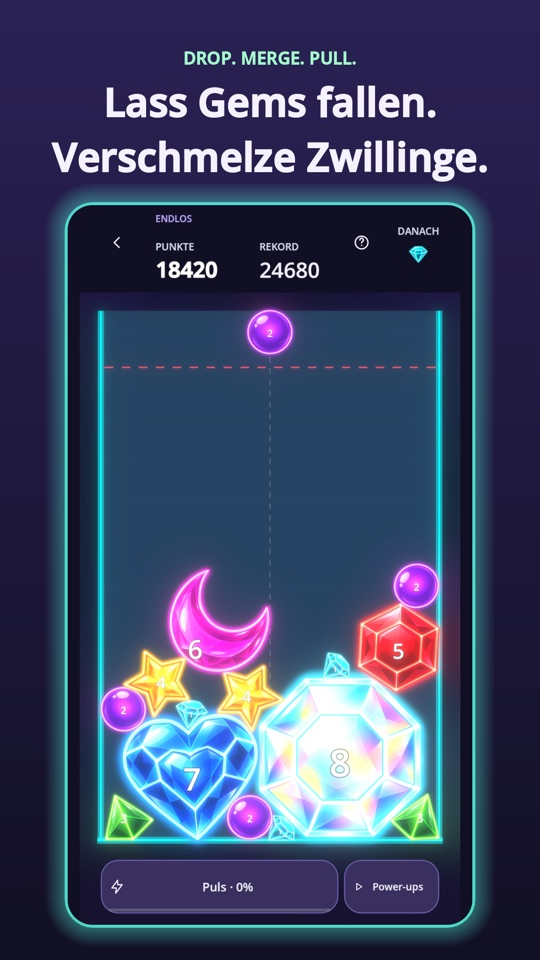
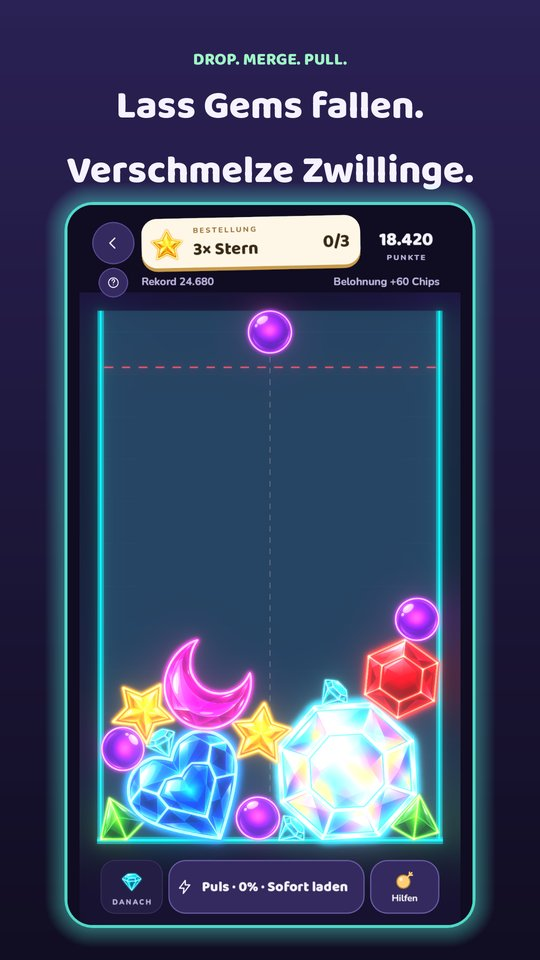
Pulsefall: privacy policy, new screenshots, twelve tiers, levels, crystal cave and gem sets

Changed region(s): [[0.1778, 0.5625, 0.8296, 0.9688], [0.0889, 0.0312, 0.9185, 0.375], [0.1185, 0.9375, 0.1481, 0.9688]]

diff --git a/pulsefall/privacy.html b/pulsefall/privacy.html
@@ -1,0 +1,130 @@
+<!doctype html>
+<html lang="de">
+<head>
+<meta charset="utf-8">
+<meta name="viewport" content="width=device-width, initial-scale=1">
+<title>Pulsefall – Datenschutz</title>
+<meta name="theme-color" content="#1d1235">
+<link rel="stylesheet" href="../style.css">
+<script src="../assets/lang.js"></script>
+</head>
+<body style="--accent:#5ee7f0; --on-accent:#08262a;">
+<header class="top"><div class="wrap">
+  <a class="logo" href="../">ginger4le</a>
+  <nav class="nav">
+    <a href="./" class="hide-sm">Pulsefall</a>
+    <span class="lang"><button data-set="de" aria-label="Deutsch">DE</button><button data-set="en" aria-label="English">EN</button></span>
+  </nav>
+</div></header>
+
+<main class="wrap doc">
+<div id="de" class="de">
+<h1>Pulsefall – Datenschutzerklärung</h1>
+<p class="muted">Entwickler: Ginger4le (Artem Bruner) · Stand: Oktober 2026</p>
+
+<section>
+<h2>1. Kurzfassung</h2>
+<p>Pulsefall braucht kein Konto. Spielstand, Rekorde und Einstellungen bleiben auf deinem Gerät. Wir betreiben keine eigenen Server und erhalten keine Spieldaten von dir. Werbung liefert Google AdMob aus, personalisierte Werbung nur mit deiner Einwilligung. Käufe wickelt Google Play ab, Zahlungsdaten erhalten wir nicht.</p>
+</section>
+
+<section>
+<h2>2. Daten auf deinem Gerät</h2>
+<p>Das Spiel speichert Spielstand, Rekorde, Fortschritt, Erfolge, Leben, gekaufte oder freigeschaltete Inhalte und Einstellungen lokal im App-Speicher. Diese Daten verlassen dein Gerät nicht durch uns. Sie werden gelöscht, wenn du die App deinstallierst oder ihre Daten löschst (Android: <em>Einstellungen › Apps › Pulsefall › Speicher › Speicherinhalt löschen</em>). Eine Android-Gerätesicherung durch Google kann je nach deinen Systemeinstellungen App-Daten einschließen.</p>
+</section>
+
+<section>
+<h2>3. Werbung (Google AdMob)</h2>
+<p>Anbieter: Google Ireland Limited, Gordon House, Barrow Street, Dublin 4, Irland. AdMob kann insbesondere die Werbe-ID deines Geräts, die IP-Adresse, Geräte- und App-Informationen sowie Interaktionen mit Anzeigen verarbeiten, um Anzeigen auszuliefern, zu begrenzen, zu messen und Betrug zu verhindern.</p><p>Beim ersten Start fragt dich ein Einwilligungsdialog (Google User Messaging Platform), ob Informationen auf deinem Gerät gespeichert oder ausgelesen und Anzeigen personalisiert werden dürfen. Rechtsgrundlage ist deine Einwilligung (Art. 6 Abs. 1 lit. a DSGVO, § 25 Abs. 1 TDDDG). Ohne Einwilligung werden, soweit möglich, nur nicht personalisierte Anzeigen auf Grundlage unseres berechtigten Interesses an der Finanzierung des kostenlosen Spiels ausgeliefert (Art. 6 Abs. 1 lit. f DSGVO). Deine Auswahl kannst du jederzeit im Spiel unter <em>Einstellungen › Werbe-Datenschutzeinstellungen</em> ändern oder widerrufen; die Werbe-ID lässt sich in den Android-Einstellungen zurücksetzen oder löschen.</p><p>Google kann Daten auch in die USA übermitteln; Google LLC ist unter dem EU-US Data Privacy Framework zertifiziert. Mehr dazu: <a href="https://policies.google.com/privacy" rel="noopener">Google-Datenschutzerklärung</a>, <a href="https://policies.google.com/technologies/partner-sites" rel="noopener">Wie Google Daten von Partner-Apps verwendet</a>.</p>
+</section>
+
+<section>
+<h2>4. Käufe (Google Play)</h2>
+<p>In-App-Käufe (z. B. Chips, Starterpaket, Werbung entfernen) laufen über Google Play Billing. Google verarbeitet dafür deine Konto- und Zahlungsdaten nach der eigenen Datenschutzerklärung. Die App erhält nur eine Kaufbestätigung (Produkt, Kaufstatus, Kauf-Token), um den Inhalt freizuschalten und wiederherzustellen. Rechtsgrundlage ist die Vertragserfüllung (Art. 6 Abs. 1 lit. b DSGVO).</p>
+</section>
+
+<section>
+<h2>5. Google Play und Absturzberichte</h2>
+<p>Beim Download und bei Updates verarbeitet Google Play Daten in eigener Verantwortung. Hast du das in Android aktiviert, kann Google uns anonymisierte Absturz- und Leistungsstatistiken (Android Vitals) bereitstellen. Daraus können wir dich nicht identifizieren.</p>
+</section>
+
+<section>
+<h2>6. Kontakt per E-Mail</h2>
+<p>Schreibst du uns, verwenden wir deine E-Mail-Adresse und Nachricht nur zur Bearbeitung deiner Anfrage (Art. 6 Abs. 1 lit. b bzw. f DSGVO) und löschen sie, sobald sie nicht mehr nötig sind.</p>
+</section>
+
+<section>
+<h2>7. Kinder</h2>
+<p>Das Spiel richtet sich nicht an Kinder unter 16 Jahren. Wir erheben wissentlich keine personenbezogenen Daten von Kindern.</p>
+</section>
+
+<section>
+<h2>8. Deine Rechte</h2>
+<p>Du hast das Recht auf Auskunft, Berichtigung, Löschung, Einschränkung der Verarbeitung, Datenübertragbarkeit und Widerspruch gegen Verarbeitungen auf Grundlage berechtigter Interessen (Art. 15–21 DSGVO). Einwilligungen kannst du jederzeit mit Wirkung für die Zukunft widerrufen. Du kannst dich außerdem bei einer Datenschutz-Aufsichtsbehörde beschweren. Da wir selbst keine Spieldaten erhalten, richten sich Anfragen zu AdMob- oder Play-Daten am wirksamsten direkt an Google.</p>
+</section>
+
+<section>
+<h2>9. Kontakt</h2>
+<p><a href="mailto:ginger4le.dev+pulsefall@gmail.com">ginger4le.dev+pulsefall@gmail.com</a></p><p class="muted">Ändern sich das Spiel oder die eingesetzten Dienste, passen wir diese Erklärung vorher an.</p>
+</section>
+</div>
+
+<div id="en" class="en">
+<h1>Pulsefall – Privacy policy</h1>
+<p class="muted">Developer: Ginger4le (Artem Bruner) · Last updated: October 2026</p>
+
+<section>
+<h2>1. Summary</h2>
+<p>Pulsefall needs no account. Your progress, records and settings stay on your device. We run no servers of our own and receive no gameplay data from you. Ads are served by Google AdMob, personalised ads only with your consent. Purchases are handled by Google Play; we never receive payment details.</p>
+</section>
+
+<section>
+<h2>2. Data on your device</h2>
+<p>The game stores your saved round, records, progress, achievements, lives, purchased or unlocked content and settings locally in the app's storage. We do not transfer this data off your device. It is deleted when you uninstall the app or clear its data (Android: <em>Settings › Apps › Pulsefall › Storage › Clear storage</em>). Depending on your system settings, Android device backups by Google may include app data.</p>
+</section>
+
+<section>
+<h2>3. Advertising (Google AdMob)</h2>
+<p>Provider: Google Ireland Limited, Gordon House, Barrow Street, Dublin 4, Ireland. AdMob may process your device's advertising ID, IP address, device and app information and ad interactions to serve, cap and measure ads and to prevent fraud.</p><p>On first launch a consent dialog (Google User Messaging Platform) asks whether information may be stored on or read from your device and whether ads may be personalised. The legal basis is your consent (Art. 6(1)(a) GDPR, § 25(1) TDDDG). Without consent, where possible only non-personalised ads are served based on our legitimate interest in funding the free game (Art. 6(1)(f) GDPR). You can change or withdraw your choice at any time in the game under <em>Settings › Ad privacy settings</em>; you can also reset or delete your advertising ID in Android settings.</p><p>Google may transfer data to the USA; Google LLC is certified under the EU-US Data Privacy Framework. More: <a href="https://policies.google.com/privacy" rel="noopener">Google Privacy Policy</a>, <a href="https://policies.google.com/technologies/partner-sites" rel="noopener">How Google uses information from partner apps</a>.</p>
+</section>
+
+<section>
+<h2>4. Purchases (Google Play)</h2>
+<p>In-app purchases (such as chips, the starter pack or removing ads) are processed through Google Play Billing. Google processes your account and payment data under its own privacy policy. The app only receives a purchase confirmation (product, purchase state, purchase token) to unlock and restore the content. The legal basis is performance of a contract (Art. 6(1)(b) GDPR).</p>
+</section>
+
+<section>
+<h2>5. Google Play and crash reports</h2>
+<p>Google Play processes data under its own responsibility when you download and update the app. If you enabled this in Android, Google may provide us with anonymised crash and performance statistics (Android vitals), which do not identify you.</p>
+</section>
+
+<section>
+<h2>6. Email contact</h2>
+<p>If you email us, we use your address and message only to handle your request (Art. 6(1)(b) or (f) GDPR) and delete them once they are no longer needed.</p>
+</section>
+
+<section>
+<h2>7. Children</h2>
+<p>The game is not directed at children under 16. We do not knowingly collect personal data from children.</p>
+</section>
+
+<section>
+<h2>8. Your rights</h2>
+<p>You have the right to access, rectification, erasure, restriction of processing, data portability and to object to processing based on legitimate interests (Art. 15–21 GDPR). You may withdraw consent at any time with effect for the future. You may also lodge a complaint with a data protection supervisory authority. Because we receive no gameplay data ourselves, requests about AdMob or Play data are most effectively directed to Google.</p>
+</section>
+
+<section>
+<h2>9. Contact</h2>
+<p><a href="mailto:ginger4le.dev+pulsefall@gmail.com">ginger4le.dev+pulsefall@gmail.com</a></p><p class="muted">If the game or the services it uses change, we update this policy first.</p>
+</section>
+</div>
+</main>
+
+<footer class="foot"><div class="wrap">
+  <span>© 2026 Ginger4le · Artem Bruner</span>
+  <a href="mailto:ginger4le.dev+pulsefall@gmail.com"><span class="de">Kontakt</span><span class="en">Contact</span></a>
+  <a href="https://ko-fi.com/artembruner" rel="noopener">Ko-fi</a>
+  <a class="sp" href="../"><span class="de">Alle Spiele und Apps</span><span class="en">All games and apps</span></a>
+</div></footer>
+
+</body>
+</html>

diff --git a/pulsefall/index.html b/pulsefall/index.html
@@ -26,7 +26,7 @@
   <img class="appicon" src="img/icon.png" alt="" width="88" height="88">
   <h1>Pulsefall</h1>
   <p class="tagline"><span class="de">Lass Gems fallen. Verschmelze Zwillinge.<br>Halte den Puls.</span><span class="en">Drop gems. Merge twins.<br>Hold the pulse.</span></p>
-  <p class="intro"><span class="de">Ein Merge-Puzzle mit echter Physik: Zwei gleiche Gems werden zu einem größeren. Klettere über zehn Stufen vom kleinen Diamanten bis zur Sonne – bevor das Glas überläuft.</span><span class="en">A merge puzzle with real physics: two equal gems become a bigger one. Climb ten tiers from a tiny diamond all the way to the sun – before the glass overflows.</span></p>
+  <p class="intro"><span class="de">Ein Merge-Puzzle mit echter Physik: Zwei gleiche Gems werden zu einem größeren. Klettere über zwölf Stufen vom kleinen Diamanten bis zur Nova – bevor das Glas überläuft.</span><span class="en">A merge puzzle with real physics: two equal gems become a bigger one. Climb twelve tiers from a tiny diamond all the way to the nova – before the glass overflows.</span></p>
   <span class="status"><span class="de">Bald bei Google Play</span><span class="en">Coming soon to Google Play</span></span>
 </div></section>
 
@@ -44,9 +44,10 @@
 
   <div class="features">
     <div><h3><span class="de">Der Puls</span><span class="en">The pulse</span></h3><p><span class="de">Jede Fusion lädt den Puls. Halte einen Gem fest, und sein Zwilling gleitet quer durch den Stapel zu dir – ganze Ketten auf einmal.</span><span class="en">Every merge charges the pulse. Hold a gem and its twin glides through the pile to you – whole chains at once.</span></p></div>
-    <div><h3><span class="de">Kurze Runden</span><span class="en">Short rounds</span></h3><p><span class="de">Tippen zum Fallenlassen, ein Endlos-Modus, der enger wird, und jeden Tag eine neue Daily Challenge.</span><span class="en">Tap to drop, an endless mode that gets tighter and a new Daily Challenge every day.</span></p></div>
-    <div><h3><span class="de">Spezial-Gems</span><span class="en">Special gems</span></h3><p><span class="de">Joker, Laser, Magnet, Glitch und Mine, dazu Erfolge und sammelbare Gefäß-Designs.</span><span class="en">Joker, laser, magnet, glitch and mine, plus achievements and collectible vessel designs.</span></p></div>
-    <div><h3><span class="de">Fair</span><span class="en">Fair</span></h3><p><span class="de">Kein Konto, spielbar offline, Videos freiwillig. Pulse Plus ist ein Einmalkauf, kein Abo.</span><span class="en">No account, plays offline, videos are optional. Pulse Plus is a one-time purchase, not a subscription.</span></p></div>
+    <div><h3><span class="de">Level und Kristallhöhle</span><span class="en">Levels and the crystal cave</span></h3><p><span class="de">Jedes Level ist eine Bestellung: zwei Kronen, eine Puls-Kette, ein Punkteziel. Deine Sterne erleuchten Kammer für Kammer eine Kristallhöhle.</span><span class="en">Every level is an order: two crowns, a pulse chain, a score goal. Your stars light up a crystal cave chamber by chamber.</span></p></div>
+    <div><h3><span class="de">Endlos und Daily</span><span class="en">Endless and Daily</span></h3><p><span class="de">Ein Endlos-Modus, der enger wird, mit wechselnden Bestellungen, und jeden Tag eine neue Daily mit Kalender und Monatstrophäe.</span><span class="en">An endless mode that gets tighter, with rotating orders, and a new Daily every day with a calendar and a monthly trophy.</span></p></div>
+    <div><h3><span class="de">Gems sammeln</span><span class="en">Collect gems</span></h3><p><span class="de">Vier komplett neu gezeichnete Gem-Sets – Zuckerwerk, Eiskristall, Edelmetall und Kosmos – dazu Erfolge und Gefäß-Designs.</span><span class="en">Four fully redrawn gem sets – Sweet Shop, Ice Crystal, Precious Metal and Cosmos – plus achievements and vessel designs.</span></p></div>
+    <div><h3><span class="de">Fair</span><span class="en">Fair</span></h3><p><span class="de">Kein Konto, spielbar offline, Videos freiwillig. Werbung lässt sich mit einem Einmalkauf entfernen, kein Abo.</span><span class="en">No account, plays offline, videos are optional. Ads can be removed with a one-time purchase, no subscription.</span></p></div>
   </div>
 
   <section class="support">
@@ -61,6 +62,7 @@
 
 <footer class="foot"><div class="wrap">
   <span>© 2026 Ginger4le · Artem Bruner</span>
+  <a href="privacy.html"><span class="de">Datenschutz</span><span class="en">Privacy policy</span></a>
   <a href="mailto:ginger4le.dev+pulsefall@gmail.com"><span class="de">Kontakt</span><span class="en">Contact</span></a>
   <a href="https://ko-fi.com/artembruner" rel="noopener">Ko-fi</a>
   <a class="sp" href="../"><span class="de">Alle Spiele und Apps</span><span class="en">All games and apps</span></a>

diff --git a/tools/make_pages.py b/tools/make_pages.py
@@ -73,8 +73,8 @@ GAMES = [
         "og": "Drop gems, merge twins and pull whole chains together with the pulse.",
         "display": "Pulsefall",
         "tagline": ("Lass Gems fallen. Verschmelze Zwillinge.<br>Halte den Puls.", "Drop gems. Merge twins.<br>Hold the pulse."),
-        "intro": ("Ein Merge-Puzzle mit echter Physik: Zwei gleiche Gems werden zu einem größeren. Klettere über zehn Stufen vom kleinen Diamanten bis zur Sonne – bevor das Glas überläuft.",
-                  "A merge puzzle with real physics: two equal gems become a bigger one. Climb ten tiers from a tiny diamond all the way to the sun – before the glass overflows."),
+        "intro": ("Ein Merge-Puzzle mit echter Physik: Zwei gleiche Gems werden zu einem größeren. Klettere über zwölf Stufen vom kleinen Diamanten bis zur Nova – bevor das Glas überläuft.",
+                  "A merge puzzle with real physics: two equal gems become a bigger one. Climb twelve tiers from a tiny diamond all the way to the nova – before the glass overflows."),
         "status": ("Bald bei Google Play", "Coming soon to Google Play"),
         "shots": "tall",
         "images": [("img/shot_1_{l}.jpg", "Pulsefall Spielszene 1", "Pulsefall gameplay 1", 540, 960),
@@ -83,14 +83,16 @@ GAMES = [
         "features": [
             (("Der Puls", "The pulse"), ("Jede Fusion lädt den Puls. Halte einen Gem fest, und sein Zwilling gleitet quer durch den Stapel zu dir – ganze Ketten auf einmal.",
                                          "Every merge charges the pulse. Hold a gem and its twin glides through the pile to you – whole chains at once.")),
-            (("Kurze Runden", "Short rounds"), ("Tippen zum Fallenlassen, ein Endlos-Modus, der enger wird, und jeden Tag eine neue Daily Challenge.",
-                                               "Tap to drop, an endless mode that gets tighter and a new Daily Challenge every day.")),
-            (("Spezial-Gems", "Special gems"), ("Joker, Laser, Magnet, Glitch und Mine, dazu Erfolge und sammelbare Gefäß-Designs.",
-                                               "Joker, laser, magnet, glitch and mine, plus achievements and collectible vessel designs.")),
-            (("Fair", "Fair"), ("Kein Konto, spielbar offline, Videos freiwillig. Pulse Plus ist ein Einmalkauf, kein Abo.",
-                                "No account, plays offline, videos are optional. Pulse Plus is a one-time purchase, not a subscription.")),
+            (("Level und Kristallhöhle", "Levels and the crystal cave"), ("Jedes Level ist eine Bestellung: zwei Kronen, eine Puls-Kette, ein Punkteziel. Deine Sterne erleuchten Kammer für Kammer eine Kristallhöhle.",
+                                                                       "Every level is an order: two crowns, a pulse chain, a score goal. Your stars light up a crystal cave chamber by chamber.")),
+            (("Endlos und Daily", "Endless and Daily"), ("Ein Endlos-Modus, der enger wird, mit wechselnden Bestellungen, und jeden Tag eine neue Daily mit Kalender und Monatstrophäe.",
+                                                        "An endless mode that gets tighter, with rotating orders, and a new Daily every day with a calendar and a monthly trophy.")),
+            (("Gems sammeln", "Collect gems"), ("Vier komplett neu gezeichnete Gem-Sets – Zuckerwerk, Eiskristall, Edelmetall und Kosmos – dazu Erfolge und Gefäß-Designs.",
+                                               "Four fully redrawn gem sets – Sweet Shop, Ice Crystal, Precious Metal and Cosmos – plus achievements and vessel designs.")),
+            (("Fair", "Fair"), ("Kein Konto, spielbar offline, Videos freiwillig. Werbung lässt sich mit einem Einmalkauf entfernen, kein Abo.",
+                                "No account, plays offline, videos are optional. Ads can be removed with a one-time purchase, no subscription.")),
         ],
-        "privacy": False,
+        "privacy": True,
     },
 ]
 
